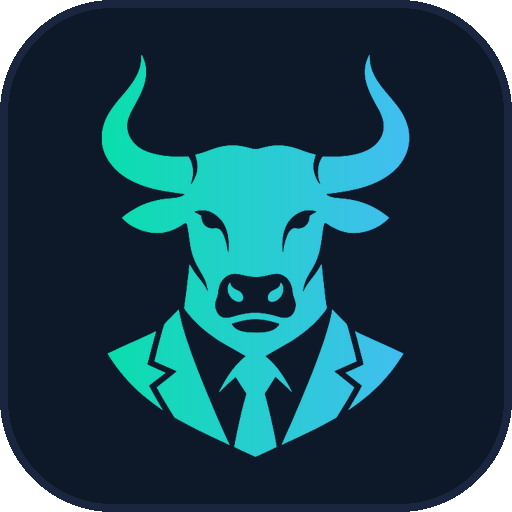
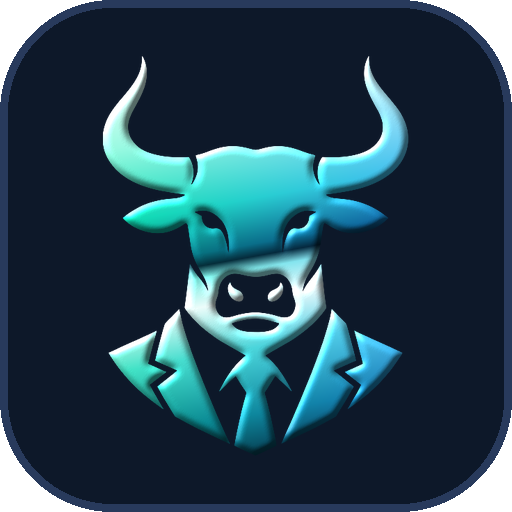
Terminal : marque métallique avec éclat, nom du courtier retiré de l'affichage
- Emblème en chrome vert-bleu (relief et reflets calculés), texte « BVC »
  en dégradé métallique ; un reflet balaie l'emblème et le texte toutes les
  6 s, coupé si l'appareil refuse les animations.
- Libellés « CDG » remplacés par « synthèse de séance » ; les lectures déjà
  publiées (jour et archives) sont traduites à l'affichage, sans réécrire
  les archives.

Claude-Session: https://claude.ai/code/session_01HrwWMPRiPfrccBHZTcBzAx

diff --git a/terminal.src.html b/terminal.src.html
@@ -207,9 +207,28 @@
       align-items:center;justify-content:center;gap:14px;cursor:pointer;animation:intro-sortie 200ms ease-in 600ms both;}
     /* 07/10/2026 : ouverture ramenée de 2 s à 800 ms (logo 500, trait 150+450,
        sortie 600+200), et jouée une fois par appareil, plus une par onglet. */
-    .intro-logo{font-size:clamp(28px,8vw,56px);font-weight:700;letter-spacing:.35em;
-      background:linear-gradient(90deg,#00e5a0,#4db8ff);-webkit-background-clip:text;-webkit-text-fill-color:transparent;
-      animation:intro-logo 500ms cubic-bezier(.2,.7,.2,1) both;}
+    .intro-logo{font-size:clamp(28px,8vw,56px);font-weight:700;letter-spacing:.35em;}
+    /* ⚠ MÉTAL ET ÉCLAT — 13/10/2026, demande d'Abd Moutalib : « couleurs
+       métalliques avec un coup d'éclat ». Le relief chromé est dans l'image
+       (assets/marque) ; l'éclat est un reflet qui balaie l'emblème, découpé
+       à sa silhouette par un masque, et le texte par un second fond. Toutes
+       les 6 s, 0,9 s de passage ; aucun mouvement si l'appareil le refuse. */
+    .metal-texte{background-image:linear-gradient(105deg,transparent 45%,rgba(255,255,255,.95) 50%,transparent 55%),
+        linear-gradient(180deg,#f0fffa 0%,#7ff5d2 30%,#00b98a 48%,#0a4a46 52%,#7fd8ff 58%,#e8f6ff 70%,#4db8ff 100%);
+      background-size:250% 100%,100% 100%;background-repeat:no-repeat;background-position:160% 0,0 0;
+      -webkit-background-clip:text;background-clip:text;-webkit-text-fill-color:transparent;color:transparent;
+      animation:eclat-texte 6s ease-in-out 1.2s infinite;}
+    @keyframes eclat-texte{0%,85%{background-position:160% 0,0 0;}100%{background-position:-60% 0,0 0;}}
+    .eclat{position:relative;display:inline-block;line-height:0;}
+    .eclat::after{content:"";position:absolute;inset:0;pointer-events:none;
+      background:linear-gradient(105deg,transparent 45%,rgba(255,255,255,.85) 50%,transparent 55%);
+      background-size:300% 100%;background-repeat:no-repeat;background-position:160% 0;
+      -webkit-mask:url(assets/marque/taureau-128.png) center/contain no-repeat;mask:url(assets/marque/taureau-128.png) center/contain no-repeat;
+      mix-blend-mode:screen;animation:eclat 6s ease-in-out 1s infinite;}
+    .eclat.grand::after{-webkit-mask-image:url(assets/marque/taureau-512.png);mask-image:url(assets/marque/taureau-512.png);animation-delay:.4s;}
+    @keyframes eclat{0%,85%{background-position:160% 0;}100%{background-position:-60% 0;}}
+    .intro-logo.metal-texte{animation:intro-logo 500ms cubic-bezier(.2,.7,.2,1) both,eclat-texte 6s ease-in-out .5s infinite;}
+    @media (prefers-reduced-motion: reduce){.eclat::after,.metal-texte{animation:none;}}
     .intro-embleme{width:clamp(84px,22vw,140px);height:auto;filter:drop-shadow(0 0 18px rgba(0,229,160,.3));
       animation:intro-logo 500ms cubic-bezier(.2,.7,.2,1) both;}
     .intro-trait{height:2px;width:0;background:linear-gradient(90deg,#00e5a0,#4db8ff);
@@ -952,7 +971,7 @@ const jjmm=d=>{const p=String(d||"").slice(0,10).split("-");return p.length===3?
 /* Pastille de fraîcheur : n'apparaît que si le cours n'est pas celui de la
    dernière séance cotée. Le titre porte la date réelle et la source. */
 const Perime=({r})=>{const m=meta(r);if(!m.stale)return null;
-  return <span title={`Cours du ${m.asof?jjmm(m.asof):"dernier run"} · source ${m.src}`}
+  return <span title={`Cours du ${m.asof?jjmm(m.asof):"dernier run"} · source ${m.src==="cdg"?"société de bourse agréée":m.src}`}
     style={{marginLeft:5,fontSize:9,fontWeight:700,color:"#ffd740",border:"1px solid rgba(255,215,64,.45)",
             borderRadius:3,padding:"1px 4px",whiteSpace:"nowrap",verticalAlign:"middle"}}>
     ⚠ {m.asof?jjmm(m.asof):"périmé"}</span>;};
@@ -1892,10 +1911,10 @@ const RUBRIQUES=[
 // mise en page : « BVC » en gras, « ANALYZER » espacé dessous.
 const Marque=({taille=36})=>(
   <span className="marque" style={{display:"inline-flex",alignItems:"center",gap:9,flex:"0 0 auto"}}>
-    <img src="assets/marque/taureau-128.png" alt="" width={taille} height={taille} style={{display:"block",filter:"drop-shadow(0 0 6px rgba(0,229,160,.25))"}}/>
+    <span className="eclat"><img src="assets/marque/taureau-128.png" alt="" width={taille} height={taille} style={{display:"block",filter:"drop-shadow(0 0 6px rgba(0,229,160,.25))"}}/></span>
     <span style={{display:"inline-flex",flexDirection:"column",lineHeight:1}}>
-      <span style={{fontSize:Math.round(taille*.56),fontWeight:700,letterSpacing:3,background:"linear-gradient(90deg,#00e5a0,#4db8ff)",WebkitBackgroundClip:"text",WebkitTextFillColor:"transparent"}}>BVC</span>
-      <span style={{fontSize:Math.max(8,Math.round(taille*.25)),fontWeight:600,letterSpacing:".32em",color:"#8892a4",marginTop:3}}>ANALYZER</span>
+      <span className="metal-texte" style={{fontSize:Math.round(taille*.56),fontWeight:700,letterSpacing:3}}>BVC</span>
+      <span style={{fontSize:Math.max(8,Math.round(taille*.25)),fontWeight:600,letterSpacing:".32em",color:"#aeb8c8",marginTop:3}}>ANALYZER</span>
     </span>
   </span>);
 
@@ -2043,8 +2062,8 @@ const Intro=()=>{
   return(
     <div className={"intro"+(phase==="attente"?" attente":phase==="sortie"?" sortie":"")} onClick={entrer} role="button"
       aria-label="Entrer dans BVC Analyzer">
-      <img className="intro-embleme" src="assets/marque/taureau-512.png" alt="" width="120" height="120"/>
-      <div className="intro-logo">BVC ANALYZER</div>
+      <span className="eclat grand"><img className="intro-embleme" src="assets/marque/taureau-512.png" alt="" width="120" height="120"/></span>
+      <div className="intro-logo metal-texte">BVC ANALYZER</div>
       <div className="intro-trait"/>
       {phase!=="auto"&&<div className="intro-toucher">{phase==="attente"?"TOUCHER POUR ENTRER":"\u00a0"}</div>}
     </div>);
@@ -2490,7 +2509,7 @@ const Ranking=({rows,sort,setSort,setSel,setTab,fav=[],toggleFav=()=>{},isWatchl
                         veille 1 580, ouverture 1 600, clôture 1 600, +1,27 %.
                         Servie par CDG — jamais déduite du % arrondi (1 579,93 au lieu de 1 580). */}
                     {r.reference!=null&&<div style={{fontSize:9.5,color:"#8892a4",fontWeight:400,whiteSpace:"nowrap"}}
-                      title="Cours de référence : clôture de la séance précédente, base de la variation (servi par CDG)">
+                      title="Cours de référence : clôture de la séance précédente, base de la variation (servi par la synthèse de séance)">
                       réf. {px(r.reference)}</div>}
                     <div className="mobile-seul" style={{fontSize:9.5,color:"#8892a4",fontWeight:400}}>{volumeCourt(r)}</div></td>
                   {/* ⚠ LE VOLUME DE LA SÉANCE — ajouté le 25/09/2026, il manquait.
@@ -2801,14 +2820,28 @@ const absencesTableau=(b,rows,masi)=>{
   const t=b.trajectoire;
   if(!t)a.push("la trajectoire du MASI — non relevée pour cette séance");
   else a.push(`la courbe intrajournalière du MASI — le briefing n'en publie que les repères (${t.n_points??"?"} points relevés), pas la série`);
-  if(!(b.veille&&b.veille.jour))a.push("les chiffres du marché entier (volume, largeur, transactions) — synthèse CDG absente de cette lecture");
+  if(!(b.veille&&b.veille.jour))a.push("les chiffres du marché entier (volume, largeur, transactions) — synthèse de séance absente de cette lecture");
   else if(titresEchanges(b,masi)==null)a.push("le nombre de titres échangés — publié seulement avec le relevé courant de data.json, qui n'est pas celui de cette lecture");
   if(!titresDuReleve(b,rows).ok)a.push("les secteurs, la répartition des variations et les plus fortes hausses, baisses et montants par titre — les cours par titre publiés (data.json) ne sont pas ceux de ce relevé");
-  if(!(b.secteurs||[]).length)a.push("les indices sectoriels CDG — non servis pour cette séance");
+  if(!(b.secteurs||[]).length)a.push("les indices sectoriels — non servis pour cette séance");
   if(!(b.matieres||[]).length)a.push("les matières premières — non relevées");
   if(!(b.depots&&(b.depots.titres||[]).length))a.push("des dépôts de résultats à l'AMMC rattachés à une action cotée — aucun relevé ce jour-là");
   return a;
 };
+
+// ⚠ 13/10/2026 : le moteur ne publie plus le nom de la société de bourse
+// (pipeline/briefing.py, SOURCE_SEANCE). Les lectures déjà publiées — le
+// jour même et les archives de briefings/ — le portent encore : on traduit
+// à l'affichage ces formules EXACTES, sans réécrire les archives.
+const FORMULES_COURTIER=[
+  ["CDG Capital Bourse — INDICE-SYNTHESE et INDICE-O-GRAPH-INTRA (MASI)","Synthèse de séance d'une société de bourse agréée — indices et série intrajournalière du MASI"],
+  ["CDG Capital Bourse — INDICE-SYNTHESE, via pipeline/marche_history.json","Synthèse de séance d'une société de bourse agréée"],
+  [" servis par CDG)"," servis)"],["(servis par CDG)","(synthèse de séance)"],
+  ["la synthèse CDG","la synthèse de séance"],["synthèse CDG","synthèse de séance"],
+  ["intrajournalière de CDG ","intrajournalière "],["non relevés auprès de CDG pour cette","non relevés pour cette"]];
+const sansNomCourtier=o=>typeof o==="string"?FORMULES_COURTIER.reduce((t,[a,b])=>t.split(a).join(b),o)
+  :Array.isArray(o)?o.map(sansNomCourtier)
+  :o&&typeof o==="object"?Object.fromEntries(Object.entries(o).map(([k,v])=>[k,sansNomCourtier(v)])):o;
 
 const SeanceDetail=({b,rows,masi,ouvrir})=>{
   const t=b.trajectoire, v=b.veille, j=v&&v.jour, vv=v&&v.veille, sect=b.secteurs||[], mp=b.matieres||[];
@@ -2837,12 +2870,14 @@ const SeanceDetail=({b,rows,masi,ouvrir})=>{
       med:mediane(l.map(r=>r.chg)),h:l.filter(r=>r.chg>0).length,bs:l.filter(r=>r.chg<0).length})).sort((x,y)=>y.v-x.v);
   },[tranche,choisis,secteurs]);
   const totalVu=secteursVus.reduce((s,x)=>s+x.v,0)||1;
-  const sourceReleve=rel.ok?`data.json — ${tous.length} titres cotés le ${jm(b.seance)} ; somme de leurs montants ${montantCourt(rel.somme)}, égale au volume CDG (écart ${nfr(rel.ecart*100,2)} %)`:null;
+  const sourceReleve=rel.ok?`data.json — ${tous.length} titres cotés le ${jm(b.seance)} ; somme de leurs montants ${montantCourt(rel.somme)}, égale au volume de la synthèse de séance (écart ${nfr(rel.ecart*100,2)} %)`:null;
   // La lecture peut être écrite le lendemain (clôture du 12/10 écrite le 13 à
   // 00:28) : la date d'écriture est donc complète, jamais l'heure seule.
   const ecrite=b.ecrit_a?`écrite le ${jm(b.ecrit_a.slice(0,10))} à ${b.ecrit_a.slice(11)}`:null;
   const dateLecture=`${jma(b.seance)}${ecrite?` · ${ecrite}`:""}`;
-  const srcCdg=`CDG synthèse · séance du ${jm(b.seance)}`;
+  // 13/10/2026 : le nom de la société de bourse n'est plus affiché (demande
+  // d'Abd Moutalib) ; la provenance exacte reste dans pipeline/seance_marche.json.
+  const srcCdg=`Synthèse de séance · ${jm(b.seance)}`;
   const te=titresEchanges(b,masi);
   const larg=j&&(j.hausses!=null||j.baisses!=null)?j:null;
   const nLarg=larg?(larg.hausses||0)+(larg.baisses||0)+(larg.inchanges||0):0;
@@ -2954,8 +2989,8 @@ const SeanceDetail=({b,rows,masi,ouvrir})=>{
 
       {/* Sans les visuels par titre, le panneau prend la place laissée à côté
           des repères du MASI (8 colonnes sur 12) plutôt que de laisser un trou. */}
-      {sect.length>0&&<Panneau cls={rel.ok?"c6":"c8"} titre="Indices sectoriels CDG"
-          source={`CDG Capital Bourse — INDICE-SYNTHESE, identité et date vérifiées pour chaque indice · ${dateLecture}. Classification CDG (${sect.length} indices), distincte de celle des titres : non reliée au filtre.`}>
+      {sect.length>0&&<Panneau cls={rel.ok?"c6":"c8"} titre="Indices sectoriels"
+          source={`Synthèse de séance — identité et date vérifiées pour chaque indice · ${dateLecture}. Classification propre aux indices (${sect.length} indices), distincte de celle des titres : non reliée au filtre.`}>
         {/* ⚠ Tous à 0,00 % : 23 barres vides ne montreraient rien. Le fait
             est dit, la liste reste accessible repliée. */}
         {sectNuls&&<div style={{fontSize:11.5,color:"#ffd740",marginBottom:6}}>Les {sect.length} indices sont publiés à 0,00 % pour ce relevé (cours égal à la veille dans la source).</div>}
@@ -3167,11 +3202,12 @@ const Briefing=({rows,masi,ouvrir})=>{
   const [detail,setDetail]=useState(false);
   useEffect(()=>{
     const t=Math.floor(Date.now()/3600000);
+    const sn=r=>r.ok?r.json().then(sansNomCourtier):null;
     Promise.all([
-      fetch("briefing.json?t="+t).then(r=>r.ok?r.json():null).catch(()=>null),
-      fetch("briefing_hebdo.json?t="+t).then(r=>r.ok?r.json():null).catch(()=>null),
-      fetch("briefing_mijournee.json?t="+t).then(r=>r.ok?r.json():null).catch(()=>null),
-      fetch("briefing_cloture.json?t="+t).then(r=>r.ok?r.json():null).catch(()=>null),
+      fetch("briefing.json?t="+t).then(sn).catch(()=>null),
+      fetch("briefing_hebdo.json?t="+t).then(sn).catch(()=>null),
+      fetch("briefing_mijournee.json?t="+t).then(sn).catch(()=>null),
+      fetch("briefing_cloture.json?t="+t).then(sn).catch(()=>null),
     ]).then(([j,s,m,c])=>{setB(j);setH(s);setMj(m);setCl(c);setEtat(j?"ok":"absent");});
     fetch("briefings/index.json?t="+t).then(r=>r.ok?r.json():null).catch(()=>null)
       .then(x=>setSeances((x&&x.seances)||[]));
@@ -3180,7 +3216,7 @@ const Briefing=({rows,masi,ouvrir})=>{
     if(!d){setChoix(null);setArch(null);setVue("jour");return;}
     setChoix(d);setArch(null);
     fetch(`briefings/${d}.json?t=${Math.floor(Date.now()/3600000)}`)
-      .then(r=>r.ok?r.json():null).catch(()=>null)
+      .then(r=>r.ok?r.json().then(sansNomCourtier):null).catch(()=>null)
       .then(x=>{setArch(x||{});setVue(x&&x.cloture?"cloture":"mijournee");});
   };
 

diff --git a/index.html b/index.html
@@ -207,9 +207,28 @@
       align-items:center;justify-content:center;gap:14px;cursor:pointer;animation:intro-sortie 200ms ease-in 600ms both;}
     /* 07/10/2026 : ouverture ramenée de 2 s à 800 ms (logo 500, trait 150+450,
        sortie 600+200), et jouée une fois par appareil, plus une par onglet. */
-    .intro-logo{font-size:clamp(28px,8vw,56px);font-weight:700;letter-spacing:.35em;
-      background:linear-gradient(90deg,#00e5a0,#4db8ff);-webkit-background-clip:text;-webkit-text-fill-color:transparent;
-      animation:intro-logo 500ms cubic-bezier(.2,.7,.2,1) both;}
+    .intro-logo{font-size:clamp(28px,8vw,56px);font-weight:700;letter-spacing:.35em;}
+    /* ⚠ MÉTAL ET ÉCLAT — 13/10/2026, demande d'Abd Moutalib : « couleurs
+       métalliques avec un coup d'éclat ». Le relief chromé est dans l'image
+       (assets/marque) ; l'éclat est un reflet qui balaie l'emblème, découpé
+       à sa silhouette par un masque, et le texte par un second fond. Toutes
+       les 6 s, 0,9 s de passage ; aucun mouvement si l'appareil le refuse. */
+    .metal-texte{background-image:linear-gradient(105deg,transparent 45%,rgba(255,255,255,.95) 50%,transparent 55%),
+        linear-gradient(180deg,#f0fffa 0%,#7ff5d2 30%,#00b98a 48%,#0a4a46 52%,#7fd8ff 58%,#e8f6ff 70%,#4db8ff 100%);
+      background-size:250% 100%,100% 100%;background-repeat:no-repeat;background-position:160% 0,0 0;
+      -webkit-background-clip:text;background-clip:text;-webkit-text-fill-color:transparent;color:transparent;
+      animation:eclat-texte 6s ease-in-out 1.2s infinite;}
+    @keyframes eclat-texte{0%,85%{background-position:160% 0,0 0;}100%{background-position:-60% 0,0 0;}}
+    .eclat{position:relative;display:inline-block;line-height:0;}
+    .eclat::after{content:"";position:absolute;inset:0;pointer-events:none;
+      background:linear-gradient(105deg,transparent 45%,rgba(255,255,255,.85) 50%,transparent 55%);
+      background-size:300% 100%;background-repeat:no-repeat;background-position:160% 0;
+      -webkit-mask:url(assets/marque/taureau-128.png) center/contain no-repeat;mask:url(assets/marque/taureau-128.png) center/contain no-repeat;
+      mix-blend-mode:screen;animation:eclat 6s ease-in-out 1s infinite;}
+    .eclat.grand::after{-webkit-mask-image:url(assets/marque/taureau-512.png);mask-image:url(assets/marque/taureau-512.png);animation-delay:.4s;}
+    @keyframes eclat{0%,85%{background-position:160% 0;}100%{background-position:-60% 0;}}
+    .intro-logo.metal-texte{animation:intro-logo 500ms cubic-bezier(.2,.7,.2,1) both,eclat-texte 6s ease-in-out .5s infinite;}
+    @media (prefers-reduced-motion: reduce){.eclat::after,.metal-texte{animation:none;}}
     .intro-embleme{width:clamp(84px,22vw,140px);height:auto;filter:drop-shadow(0 0 18px rgba(0,229,160,.3));
       animation:intro-logo 500ms cubic-bezier(.2,.7,.2,1) both;}
     .intro-trait{height:2px;width:0;background:linear-gradient(90deg,#00e5a0,#4db8ff);
@@ -3882,7 +3901,7 @@ const Perime = ({
   const m = meta(r);
   if (!m.stale) return null;
   return React.createElement("span", {
-    title: `Cours du ${m.asof ? jjmm(m.asof) : "dernier run"} · source ${m.src}`,
+    title: `Cours du ${m.asof ? jjmm(m.asof) : "dernier run"} · source ${m.src === "cdg" ? "société de bourse agréée" : m.src}`,
     style: {
       marginLeft: 5,
       fontSize: 9,
@@ -6080,6 +6099,8 @@ const Marque = ({
     gap: 9,
     flex: "0 0 auto"
   }
+}, React.createElement("span", {
+  className: "eclat"
 }, React.createElement("img", {
   src: "assets/marque/taureau-128.png",
   alt: "",
@@ -6089,27 +6110,25 @@ const Marque = ({
     display: "block",
     filter: "drop-shadow(0 0 6px rgba(0,229,160,.25))"
   }
-}), React.createElement("span", {
+})), React.createElement("span", {
   style: {
     display: "inline-flex",
     flexDirection: "column",
     lineHeight: 1
   }
 }, React.createElement("span", {
+  className: "metal-texte",
   style: {
     fontSize: Math.round(taille * .56),
     fontWeight: 700,
-    letterSpacing: 3,
-    background: "linear-gradient(90deg,#00e5a0,#4db8ff)",
-    WebkitBackgroundClip: "text",
-    WebkitTextFillColor: "transparent"
+    letterSpacing: 3
   }
 }, "BVC"), React.createElement("span", {
   style: {
     fontSize: Math.max(8, Math.round(taille * .25)),
     fontWeight: 600,
     letterSpacing: ".32em",
-    color: "#8892a4",
+    color: "#aeb8c8",
     marginTop: 3
   }
 }, "ANALYZER")));
@@ -6368,14 +6387,16 @@ const Intro = () => {
     onClick: entrer,
     role: "button",
     "aria-label": "Entrer dans BVC Analyzer"
+  }, React.createElement("span", {
+    className: "eclat grand"
   }, React.createElement("img", {
     className: "intro-embleme",
     src: "assets/marque/taureau-512.png",
     alt: "",
     width: "120",
     height: "120"
-  }), React.createElement("div", {
-    className: "intro-logo"
+  })), React.createElement("div", {
+    className: "intro-logo metal-texte"
   }, "BVC ANALYZER"), React.createElement("div", {
     className: "intro-trait"
   }), phase !== "auto" && React.createElement("div", {
@@ -7641,7 +7662,7 @@ const Ranking = ({
         fontWeight: 400,
         whiteSpace: "nowrap"
       },
-      title: "Cours de r\xE9f\xE9rence : cl\xF4ture de la s\xE9ance pr\xE9c\xE9dente, base de la variation (servi par CDG)"
+      title: "Cours de r\xE9f\xE9rence : cl\xF4ture de la s\xE9ance pr\xE9c\xE9dente, base de la variation (servi par la synth\xE8se de s\xE9ance)"
     }, "r\xE9f. ", px(r.reference)), React.createElement("div", {
       className: "mobile-seul",
       style: {
@@ -8387,13 +8408,15 @@ const absencesTableau = (b, rows, masi) => {
   const a = ["la capitalisation boursière globale du marché — aucune de nos sources ne la publie pour la séance"];
   const t = b.trajectoire;
   if (!t) a.push("la trajectoire du MASI — non relevée pour cette séance");else a.push(`la courbe intrajournalière du MASI — le briefing n'en publie que les repères (${t.n_points ?? "?"} points relevés), pas la série`);
-  if (!(b.veille && b.veille.jour)) a.push("les chiffres du marché entier (volume, largeur, transactions) — synthèse CDG absente de cette lecture");else if (titresEchanges(b, masi) == null) a.push("le nombre de titres échangés — publié seulement avec le relevé courant de data.json, qui n'est pas celui de cette lecture");
+  if (!(b.veille && b.veille.jour)) a.push("les chiffres du marché entier (volume, largeur, transactions) — synthèse de séance absente de cette lecture");else if (titresEchanges(b, masi) == null) a.push("le nombre de titres échangés — publié seulement avec le relevé courant de data.json, qui n'est pas celui de cette lecture");
   if (!titresDuReleve(b, rows).ok) a.push("les secteurs, la répartition des variations et les plus fortes hausses, baisses et montants par titre — les cours par titre publiés (data.json) ne sont pas ceux de ce relevé");
-  if (!(b.secteurs || []).length) a.push("les indices sectoriels CDG — non servis pour cette séance");
+  if (!(b.secteurs || []).length) a.push("les indices sectoriels — non servis pour cette séance");
   if (!(b.matieres || []).length) a.push("les matières premières — non relevées");
   if (!(b.depots && (b.depots.titres || []).length)) a.push("des dépôts de résultats à l'AMMC rattachés à une action cotée — aucun relevé ce jour-là");
   return a;
 };
+const FORMULES_COURTIER = [["CDG Capital Bourse — INDICE-SYNTHESE et INDICE-O-GRAPH-INTRA (MASI)", "Synthèse de séance d'une société de bourse agréée — indices et série intrajournalière du MASI"], ["CDG Capital Bourse — INDICE-SYNTHESE, via pipeline/marche_history.json", "Synthèse de séance d'une société de bourse agréée"], [" servis par CDG)", " servis)"], ["(servis par CDG)", "(synthèse de séance)"], ["la synthèse CDG", "la synthèse de séance"], ["synthèse CDG", "synthèse de séance"], ["intrajournalière de CDG ", "intrajournalière "], ["non relevés auprès de CDG pour cette", "non relevés pour cette"]];
+const sansNomCourtier = o => typeof o === "string" ? FORMULES_COURTIER.reduce((t, [a, b]) => t.split(a).join(b), o) : Array.isArray(o) ? o.map(sansNomCourtier) : o && typeof o === "object" ? Object.fromEntries(Object.entries(o).map(([k, v]) => [k, sansNomCourtier(v)])) : o;
 const SeanceDetail = ({
   b,
   rows,
@@ -8456,10 +8479,10 @@ const SeanceDetail = ({
     })).sort((x, y) => y.v - x.v);
   }, [tranche, choisis, secteurs]);
   const totalVu = secteursVus.reduce((s, x) => s + x.v, 0) || 1;
-  const sourceReleve = rel.ok ? `data.json — ${tous.length} titres cotés le ${jm(b.seance)} ; somme de leurs montants ${montantCourt(rel.somme)}, égale au volume CDG (écart ${nfr(rel.ecart * 100, 2)} %)` : null;
+  const sourceReleve = rel.ok ? `data.json — ${tous.length} titres cotés le ${jm(b.seance)} ; somme de leurs montants ${montantCourt(rel.somme)}, égale au volume de la synthèse de séance (écart ${nfr(rel.ecart * 100, 2)} %)` : null;
   const ecrite = b.ecrit_a ? `écrite le ${jm(b.ecrit_a.slice(0, 10))} à ${b.ecrit_a.slice(11)}` : null;
   const dateLecture = `${jma(b.seance)}${ecrite ? ` · ${ecrite}` : ""}`;
-  const srcCdg = `CDG synthèse · séance du ${jm(b.seance)}`;
+  const srcCdg = `Synthèse de séance · ${jm(b.seance)}`;
   const te = titresEchanges(b, masi);
   const larg = j && (j.hausses != null || j.baisses != null) ? j : null;
   const nLarg = larg ? (larg.hausses || 0) + (larg.baisses || 0) + (larg.inchanges || 0) : 0;
@@ -8839,8 +8862,8 @@ const SeanceDetail = ({
     }
   }, "Barre pleine : titres \xAB ", filtre.v, " \xBB ; barre p\xE2le : tous les titres.")), sect.length > 0 && React.createElement(Panneau, {
     cls: rel.ok ? "c6" : "c8",
-    titre: "Indices sectoriels CDG",
-    source: `CDG Capital Bourse — INDICE-SYNTHESE, identité et date vérifiées pour chaque indice · ${dateLecture}. Classification CDG (${sect.length} indices), distincte de celle des titres : non reliée au filtre.`
+    titre: "Indices sectoriels",
+    source: `Synthèse de séance — identité et date vérifiées pour chaque indice · ${dateLecture}. Classification propre aux indices (${sect.length} indices), distincte de celle des titres : non reliée au filtre.`
   }, sectNuls && React.createElement("div", {
     style: {
       fontSize: 11.5,
@@ -9395,7 +9418,8 @@ const Briefing = ({
   const [detail, setDetail] = useState(false);
   useEffect(() => {
     const t = Math.floor(Date.now() / 3600000);
-    Promise.all([fetch("briefing.json?t=" + t).then(r => r.ok ? r.json() : null).catch(() => null), fetch("briefing_hebdo.json?t=" + t).then(r => r.ok ? r.json() : null).catch(() => null), fetch("briefing_mijournee.json?t=" + t).then(r => r.ok ? r.json() : null).catch(() => null), fetch("briefing_cloture.json?t=" + t).then(r => r.ok ? r.json() : null).catch(() => null)]).then(([j, s, m, c]) => {
+    const sn = r => r.ok ? r.json().then(sansNomCourtier) : null;
+    Promise.all([fetch("briefing.json?t=" + t).then(sn).catch(() => null), fetch("briefing_hebdo.json?t=" + t).then(sn).catch(() => null), fetch("briefing_mijournee.json?t=" + t).then(sn).catch(() => null), fetch("briefing_cloture.json?t=" + t).then(sn).catch(() => null)]).then(([j, s, m, c]) => {
       setB(j);
       setH(s);
       setMj(m);
@@ -9413,7 +9437,7 @@ const Briefing = ({
     }
     setChoix(d);
     setArch(null);
-    fetch(`briefings/${d}.json?t=${Math.floor(Date.now() / 3600000)}`).then(r => r.ok ? r.json() : null).catch(() => null).then(x => {
+    fetch(`briefings/${d}.json?t=${Math.floor(Date.now() / 3600000)}`).then(r => r.ok ? r.json().then(sansNomCourtier) : null).catch(() => null).then(x => {
       setArch(x || {});
       setVue(x && x.cloture ? "cloture" : "mijournee");
     });
